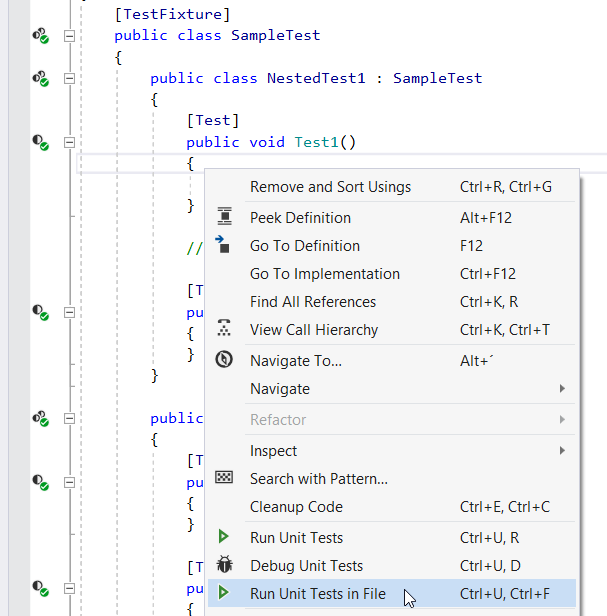
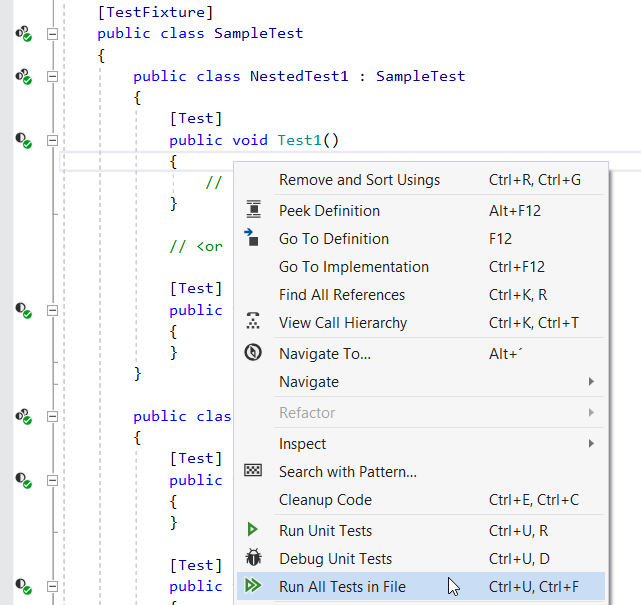
Add "Run Unit Tests in File" support in Rider

diff --git a/Src/RiderPlugin/src/main/kotlin/com/jetbrains/rider/roflcopter/unitTesting/RiderUnitTestRunFileAction.kt b/Src/RiderPlugin/src/main/kotlin/com/jetbrains/rider/roflcopter/unitTesting/RiderUnitTestRunFileAction.kt
@@ -1,0 +1,5 @@
+package com.jetbrains.rider.roflcopter.unitTesting;
+
+import com.jetbrains.rider.unitTesting.actions.RiderUnitTestAnActionBase
+
+class RiderUnitTestRunFileAction : RiderUnitTestAnActionBase("UnitTest.RunFile")

diff --git a/Src/RiderPlugin/src/main/kotlin/com/jetbrains/rider/roflcopter/settings/MismatchedFileNamesOptionsPage.kt b/Src/RiderPlugin/src/main/kotlin/com/jetbrains/rider/roflcopter/settings/MismatchedFileNamesOptionsPage.kt
@@ -1,4 +1,4 @@
-package com.jetbrains.rider.settings
+package com.jetbrains.rider.roflcopter.settings
 
 import com.jetbrains.rider.settings.simple.SimpleOptionsPage
 

diff --git a/Src/Roflcopter.Plugin/UnitTesting/UnitTestRunFileAction.cs b/Src/Roflcopter.Plugin/UnitTesting/UnitTestRunFileAction.cs
@@ -18,8 +18,8 @@ using JetBrains.Application.UI.ActionSystem.ActionsRevised.Menu;
 
 namespace Roflcopter.Plugin.UnitTesting
 {
-    [Action("UnitTest.RunFile", "&Run Unit Tests in File",
-        Icon = typeof(UnitTestingThemedIcons.RunTest),
+    [Action("UnitTest.RunFile", "Run All Tests in &File",
+        Icon = typeof(UnitTestingThemedIcons.RunAll),
         Id = 1962458498,
         IdeaShortcuts = new[] { "Control+T F", "Control+T Control+F" },
         VsShortcuts = new[] { "Control+U F", "Control+U Control+F" })]

diff --git a/README.md b/README.md
@@ -34,7 +34,7 @@ Allowed file name postfixes can be configured on the "Mismatched file names" opt
 
 <img src="/Doc/InvalidAssertionMessage.png" alt="InvalidAssertionMessage" width="673"  />
 
-### "Run Unit Tests in File" action
+### "Run All Tests in File" action
 
 <img src="/Doc/UnitTestRunFileAction.png" alt="UnitTestRunFileAction" width="490"  />
 
